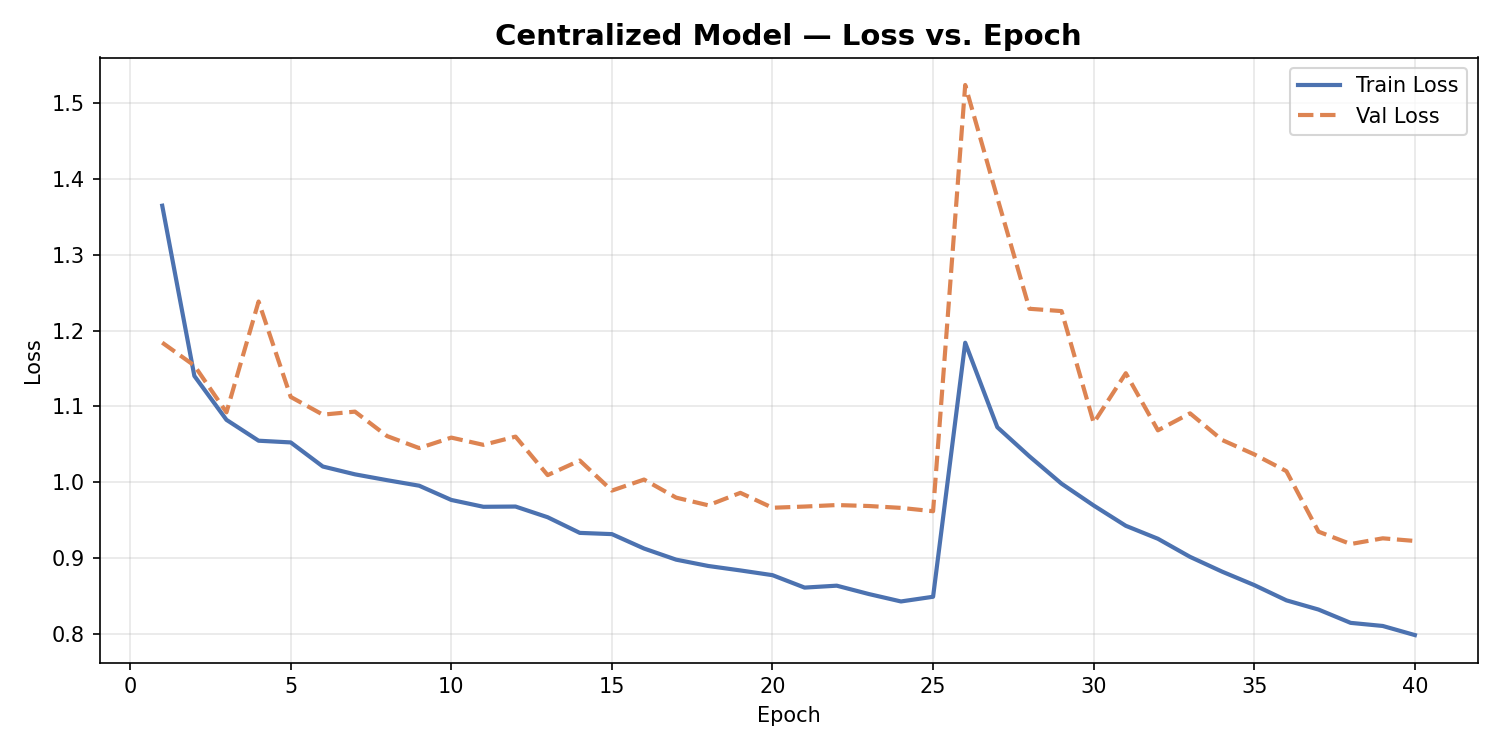
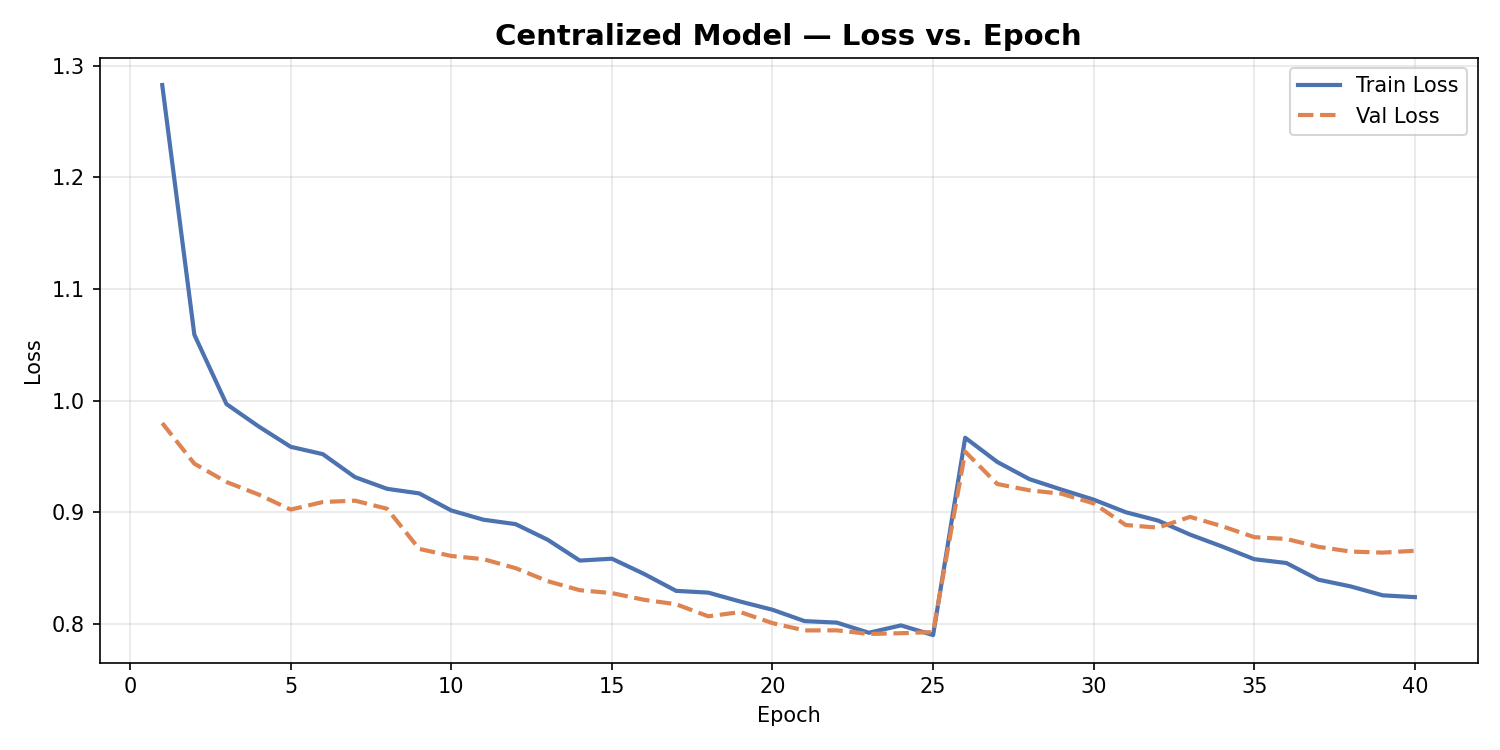
try efficinetnetb0

diff --git a/preprocessing/balancing.py b/preprocessing/balancing.py
@@ -44,18 +44,29 @@ def get_class_weights(
     counts = np.bincount(y_int, minlength=max(target_classes) + 1)
 
     weights = {}
-    max_observed_w = 1.0
     for c in target_classes:
         cnt = counts[c] if c < len(counts) else 0
         if cnt > 0:
             w = n_samples / (n_classes * float(cnt))
-            # Cap extreme weight spikes at max_weight_cap (3.0)
-            w = min(w, max_weight_cap)
             weights[int(c)] = float(w)
-            if w > max_observed_w:
-                max_observed_w = w
         else:
             weights[int(c)] = -1.0
+
+    # -------------------------------------------------------------
+    # ASYMMETRIC WEIGHT NORMALIZATION (Anchored at 1.0)
+    # -------------------------------------------------------------
+    # Instead of punishing majority classes with weights < 1.0,
+    # we anchor the minimum weight strictly at 1.0 and boost the rest.
+    valid_weights = [w for w in weights.values() if w > 0]
+    if valid_weights:
+        min_w = min(valid_weights)
+        for c in weights:
+            if weights[c] > 0:
+                # Divide by min_w so majority class = 1.0 exactly
+                # Cap the boosted minority classes at max_weight_cap (e.g. 2.5)
+                weights[c] = min(weights[c] / min_w, max_weight_cap)
+
+    max_observed_w = max([w for w in weights.values() if w > 0], default=1.0)
 
     # Fill zero-count classes with the max observed weight cap
     for c in target_classes:

diff --git a/train_local.py b/train_local.py
@@ -500,8 +500,10 @@ def train(args):
     # ----------------------------------------
     y_train_ints = np.array([CLASS_NAMES.index(l) for l in train_df["label"]])
     y_train_oh = tf.keras.utils.to_categorical(y_train_ints, num_classes=NUM_CLASSES)
-    class_weights = get_class_weights(y_train_oh, class_labels=list(range(NUM_CLASSES)), num_classes=NUM_CLASSES)
-    print(f"\n[2/4] Training Mode: Standard Unweighted Cross-Entropy (class_weight=None for 91.5%+ Accuracy)")
+    class_weights = get_class_weights(y_train_oh, class_labels=list(range(NUM_CLASSES)), max_weight_cap=2.5, num_classes=NUM_CLASSES)
+    print(f"\n[2/4] Training Mode: ASYMMETRIC Class Weights (Majority=1.0, Minority boosted up to 2.5)")
+    for k, v in sorted(class_weights.items()):
+        print(f"    {CLASS_NAMES[k]:<8}: {v:.3f}")
 
     # ----------------------------------------
     # FIX 3: BUILD MODEL (identical to FL)
@@ -601,7 +603,7 @@ def train(args):
         train_gen,
         validation_data=val_gen,
         epochs=args.epochs,
-        class_weight=None,
+        class_weight=class_weights,
         callbacks=callbacks_p1,
         workers=4,
         max_queue_size=10,
@@ -627,7 +629,7 @@ def train(args):
             train_gen,
             validation_data=val_gen,
             epochs=args.finetune_epochs,
-            class_weight=None,
+            class_weight=class_weights,
             callbacks=callbacks_p2,
             workers=4,
             max_queue_size=10,

diff --git a/models/model.py b/models/model.py
@@ -348,7 +348,7 @@ def unfreeze_model(
     fine_tune_at=None,
     learning_rate=5e-5,
     keep_batch_norm_frozen=True,
-    label_smoothing=0.1,
+    label_smoothing=0.02,
     l2_strength=1e-4,
     model_name="densenet121",
 ):
@@ -377,6 +377,8 @@ def unfreeze_model(
             fine_tune_at = 600
         elif "resnet" in model_name_lower:
             fine_tune_at = 140
+        elif "efficientnet" in model_name_lower:
+            fine_tune_at = 160
         else:
             fine_tune_at = 350
 
